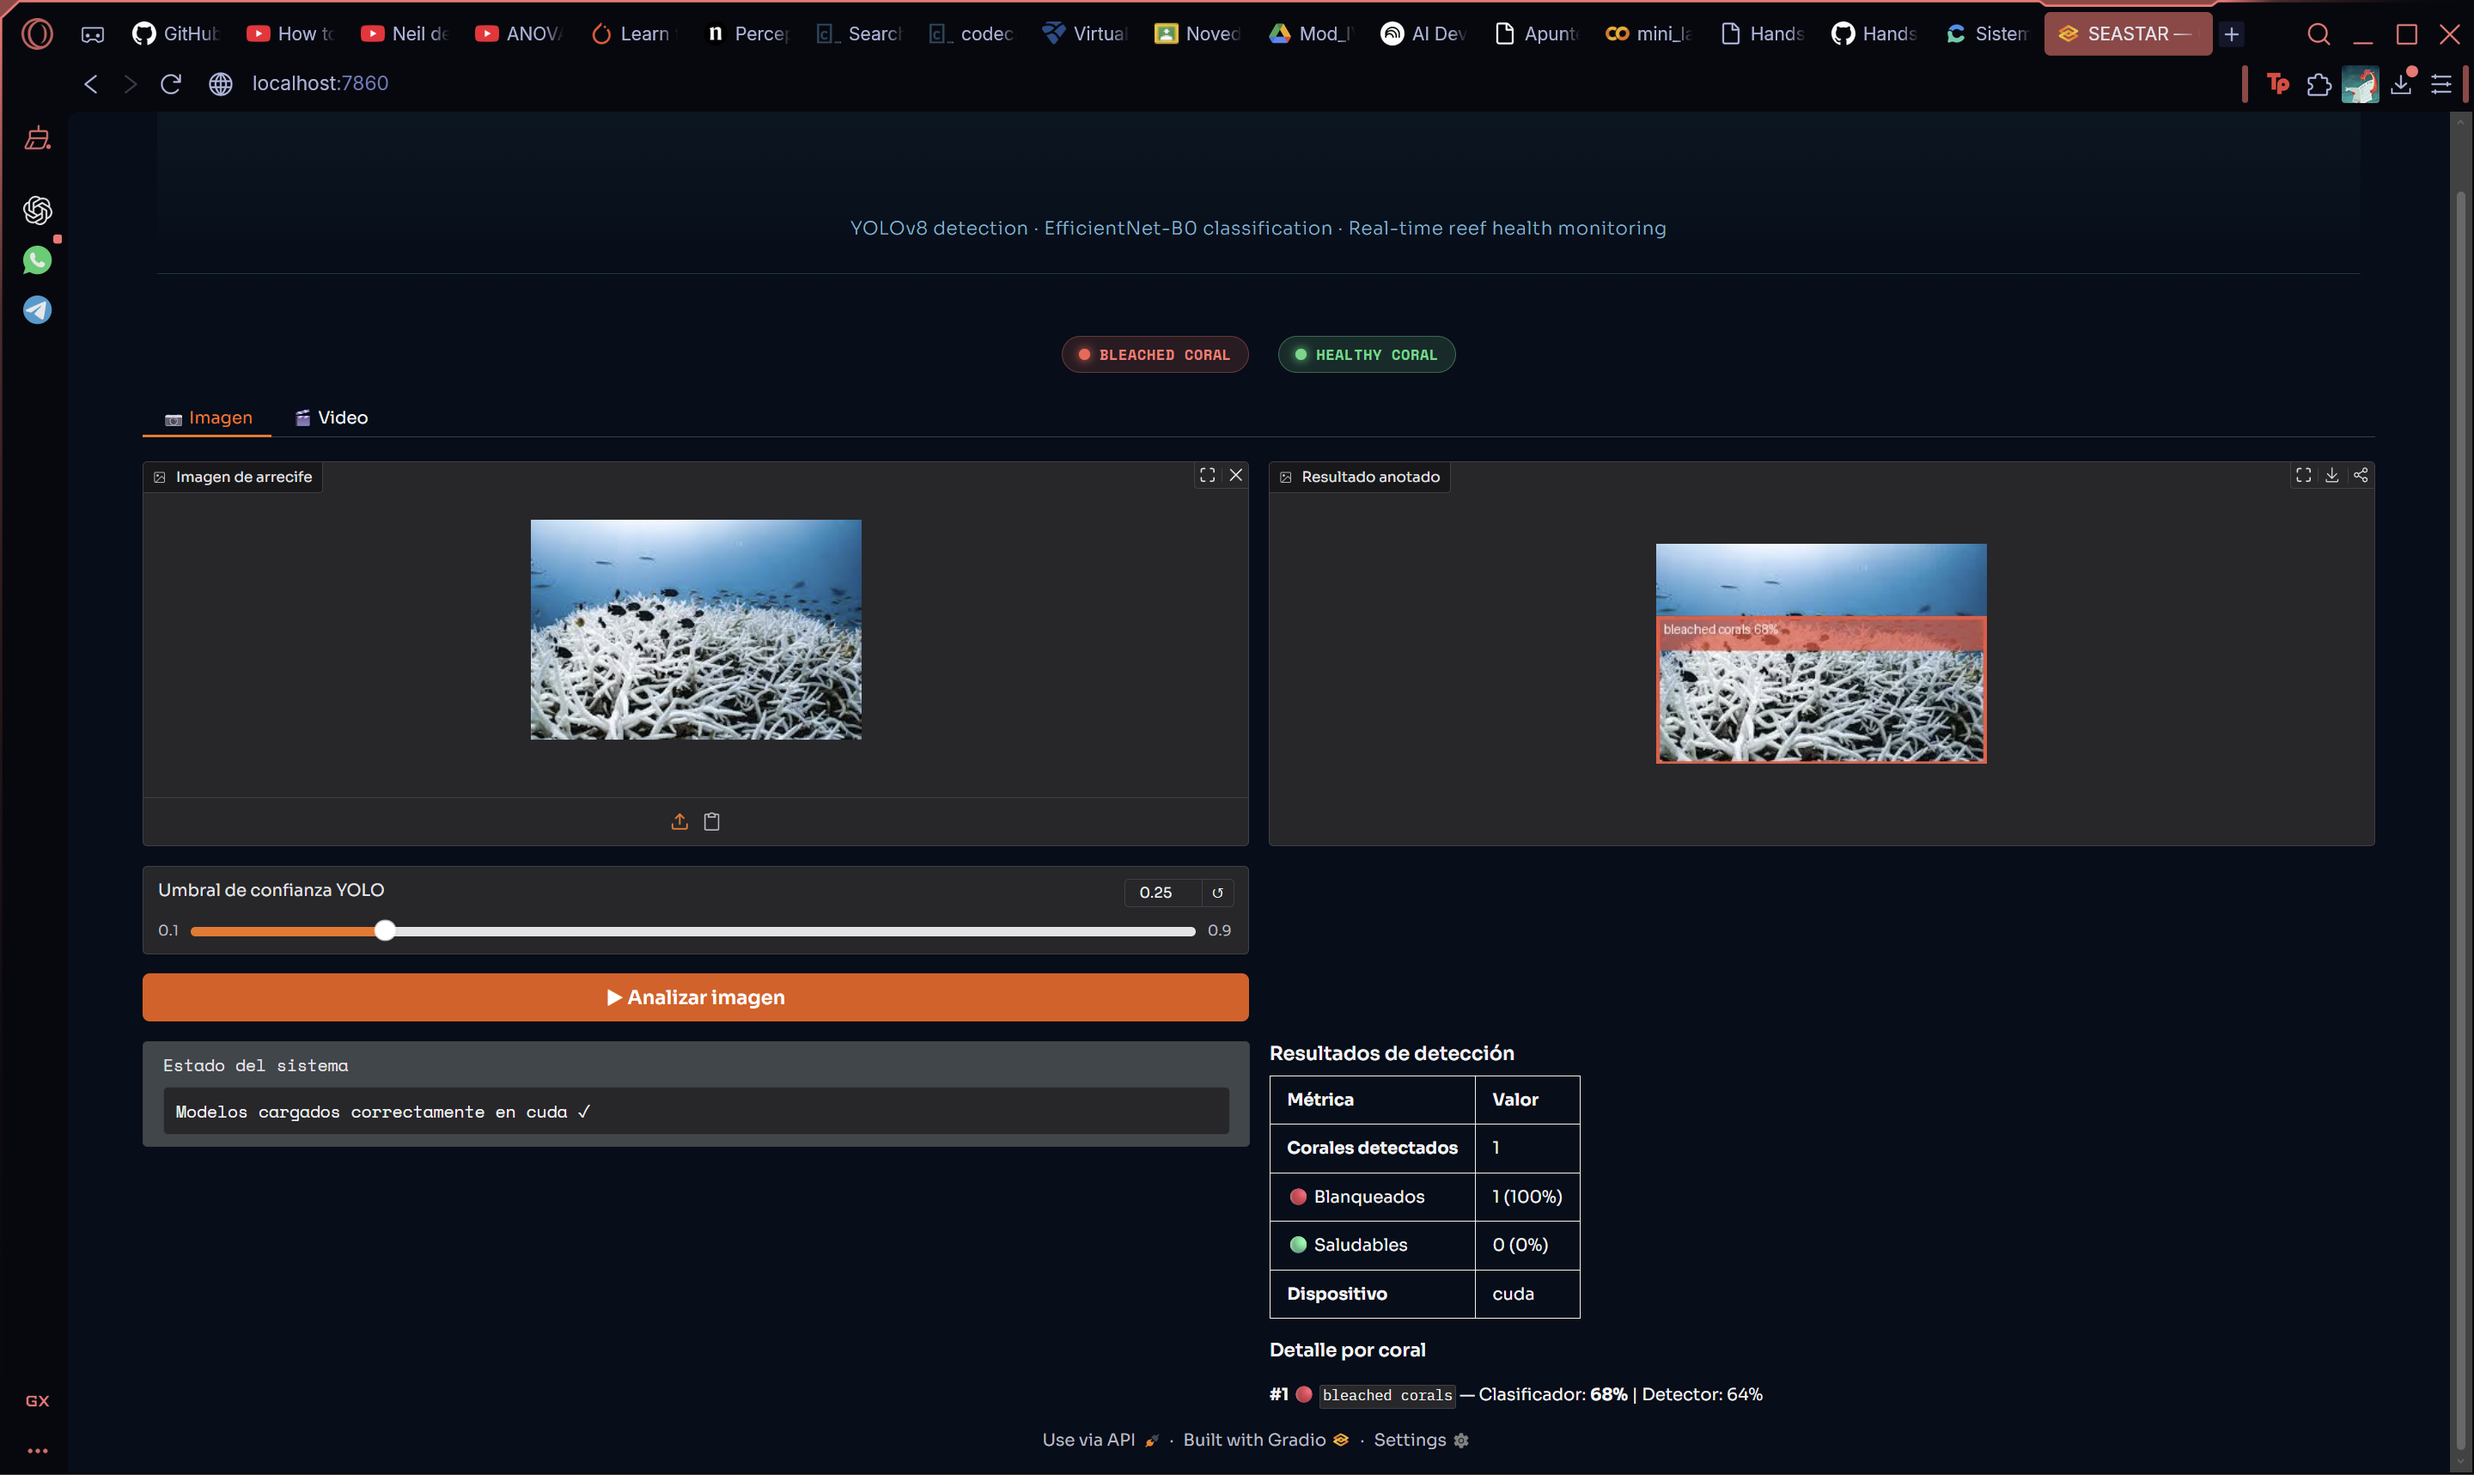
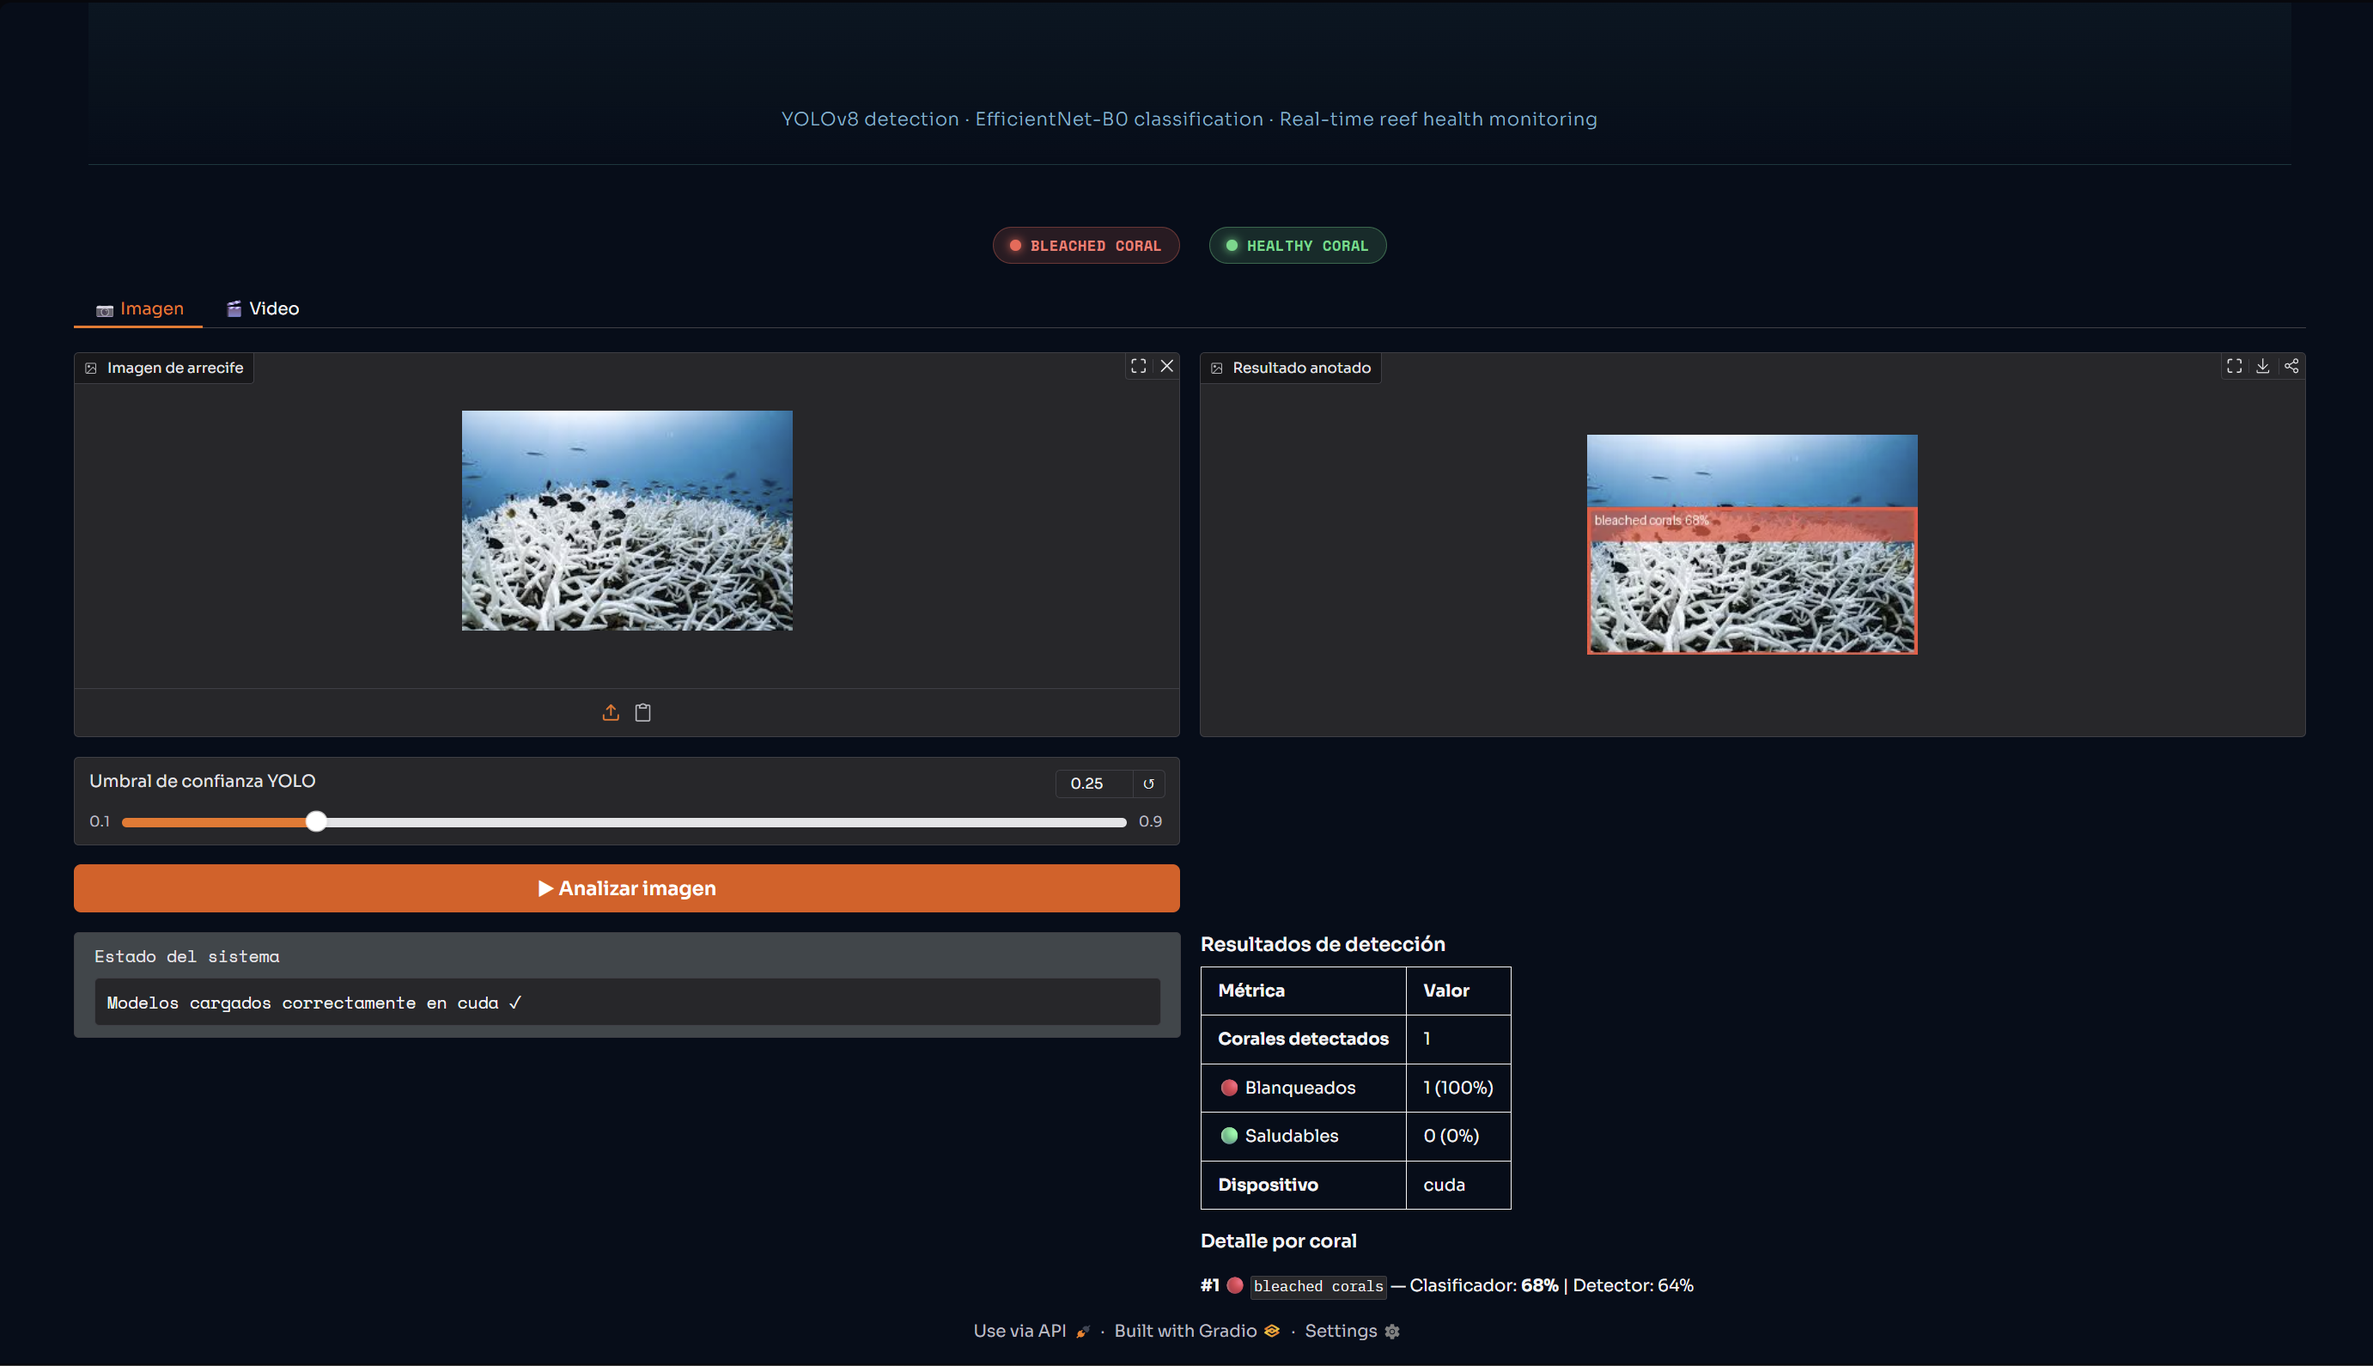
docs: image testing 2

diff --git a/README.md b/README.md
@@ -62,7 +62,10 @@ Sea stars possess **ocelli** at the tip of each arm: simple photoreceptor struct
 
 ## 🏗 System Architecture
 
-![ASTER Banner](docs/diagrama.jpeg)
+<!-- ![ASTER Banner](docs/diagrama.jpeg) -->
+<p align="center">
+  <img src="docs/diagrama.jpeg" width="500">
+</p>
 
 **Key specs:**
 - Operating depth: 0.5 – 2 meters
@@ -72,9 +75,22 @@ Sea stars possess **ocelli** at the tip of each arm: simple photoreceptor struct
 - Data storage: microSD (JSON diagnostics)
 - Estimated build cost: < $1,500 USD
 
-![System Architecture](docs/arquitectura.png)
-![Control and Sensors](docs/control_sensores.png)
-![Camera Modula](docs/camara.png)
+<!-- ![System Architecture](docs/arquitectura.png) -->
+<p align="center">
+  <img src="docs/arquitectura.png" width="500">
+</p>
+
+
+<!-- ![Control and Sensors](docs/control_sensores.png) -->
+<p align="center">
+  <img src="docs/control_sensores.png" width="500">
+</p>
+
+
+<!-- ![Camera Modula](docs/camara.png) -->
+<p align="center">
+  <img src="docs/camara.png" width="500">
+</p>
 
 ---
 
@@ -118,7 +134,7 @@ nn.Linear(1280, 1024) → BatchNorm → ReLU → Dropout(0.4) → nn.Linear(1024
 <!-- AGREGAR: Matriz de confusión -->
 <!-- ![Confusion Matrix](results/confusion_matrix.png) -->
 
----
+<!-- --- -->
 
 <!-- ## 🎨 Robot Design
 
@@ -138,7 +154,10 @@ nn.Linear(1280, 1024) → BatchNorm → ReLU → Dropout(0.4) → nn.Linear(1024
 Interactive demo built with Gradio — upload an underwater coral video and get real-time detection and classification results.
 
 <!-- AGREGAR: GIF del demo funcionando -->
-![Demo GIF](docs/output_pipeline_yt.gif)
+<!-- ![Demo GIF](docs/output_pipeline_yt.gif) -->
+<p align="center">
+  <img src="docs/output_pipeline_yt.gif" width="700">
+</p>
 
 ```bash
 python demo/demo.py
@@ -148,7 +167,7 @@ python demo/demo.py
 <!-- ![Gradio Interface](docs/gradio.png) -->
 
 <p align="center">
-  <img src="docs/gradio.png" width="250">
+  <img src="docs/gradio.png" width="500">
 </p>
 
 
